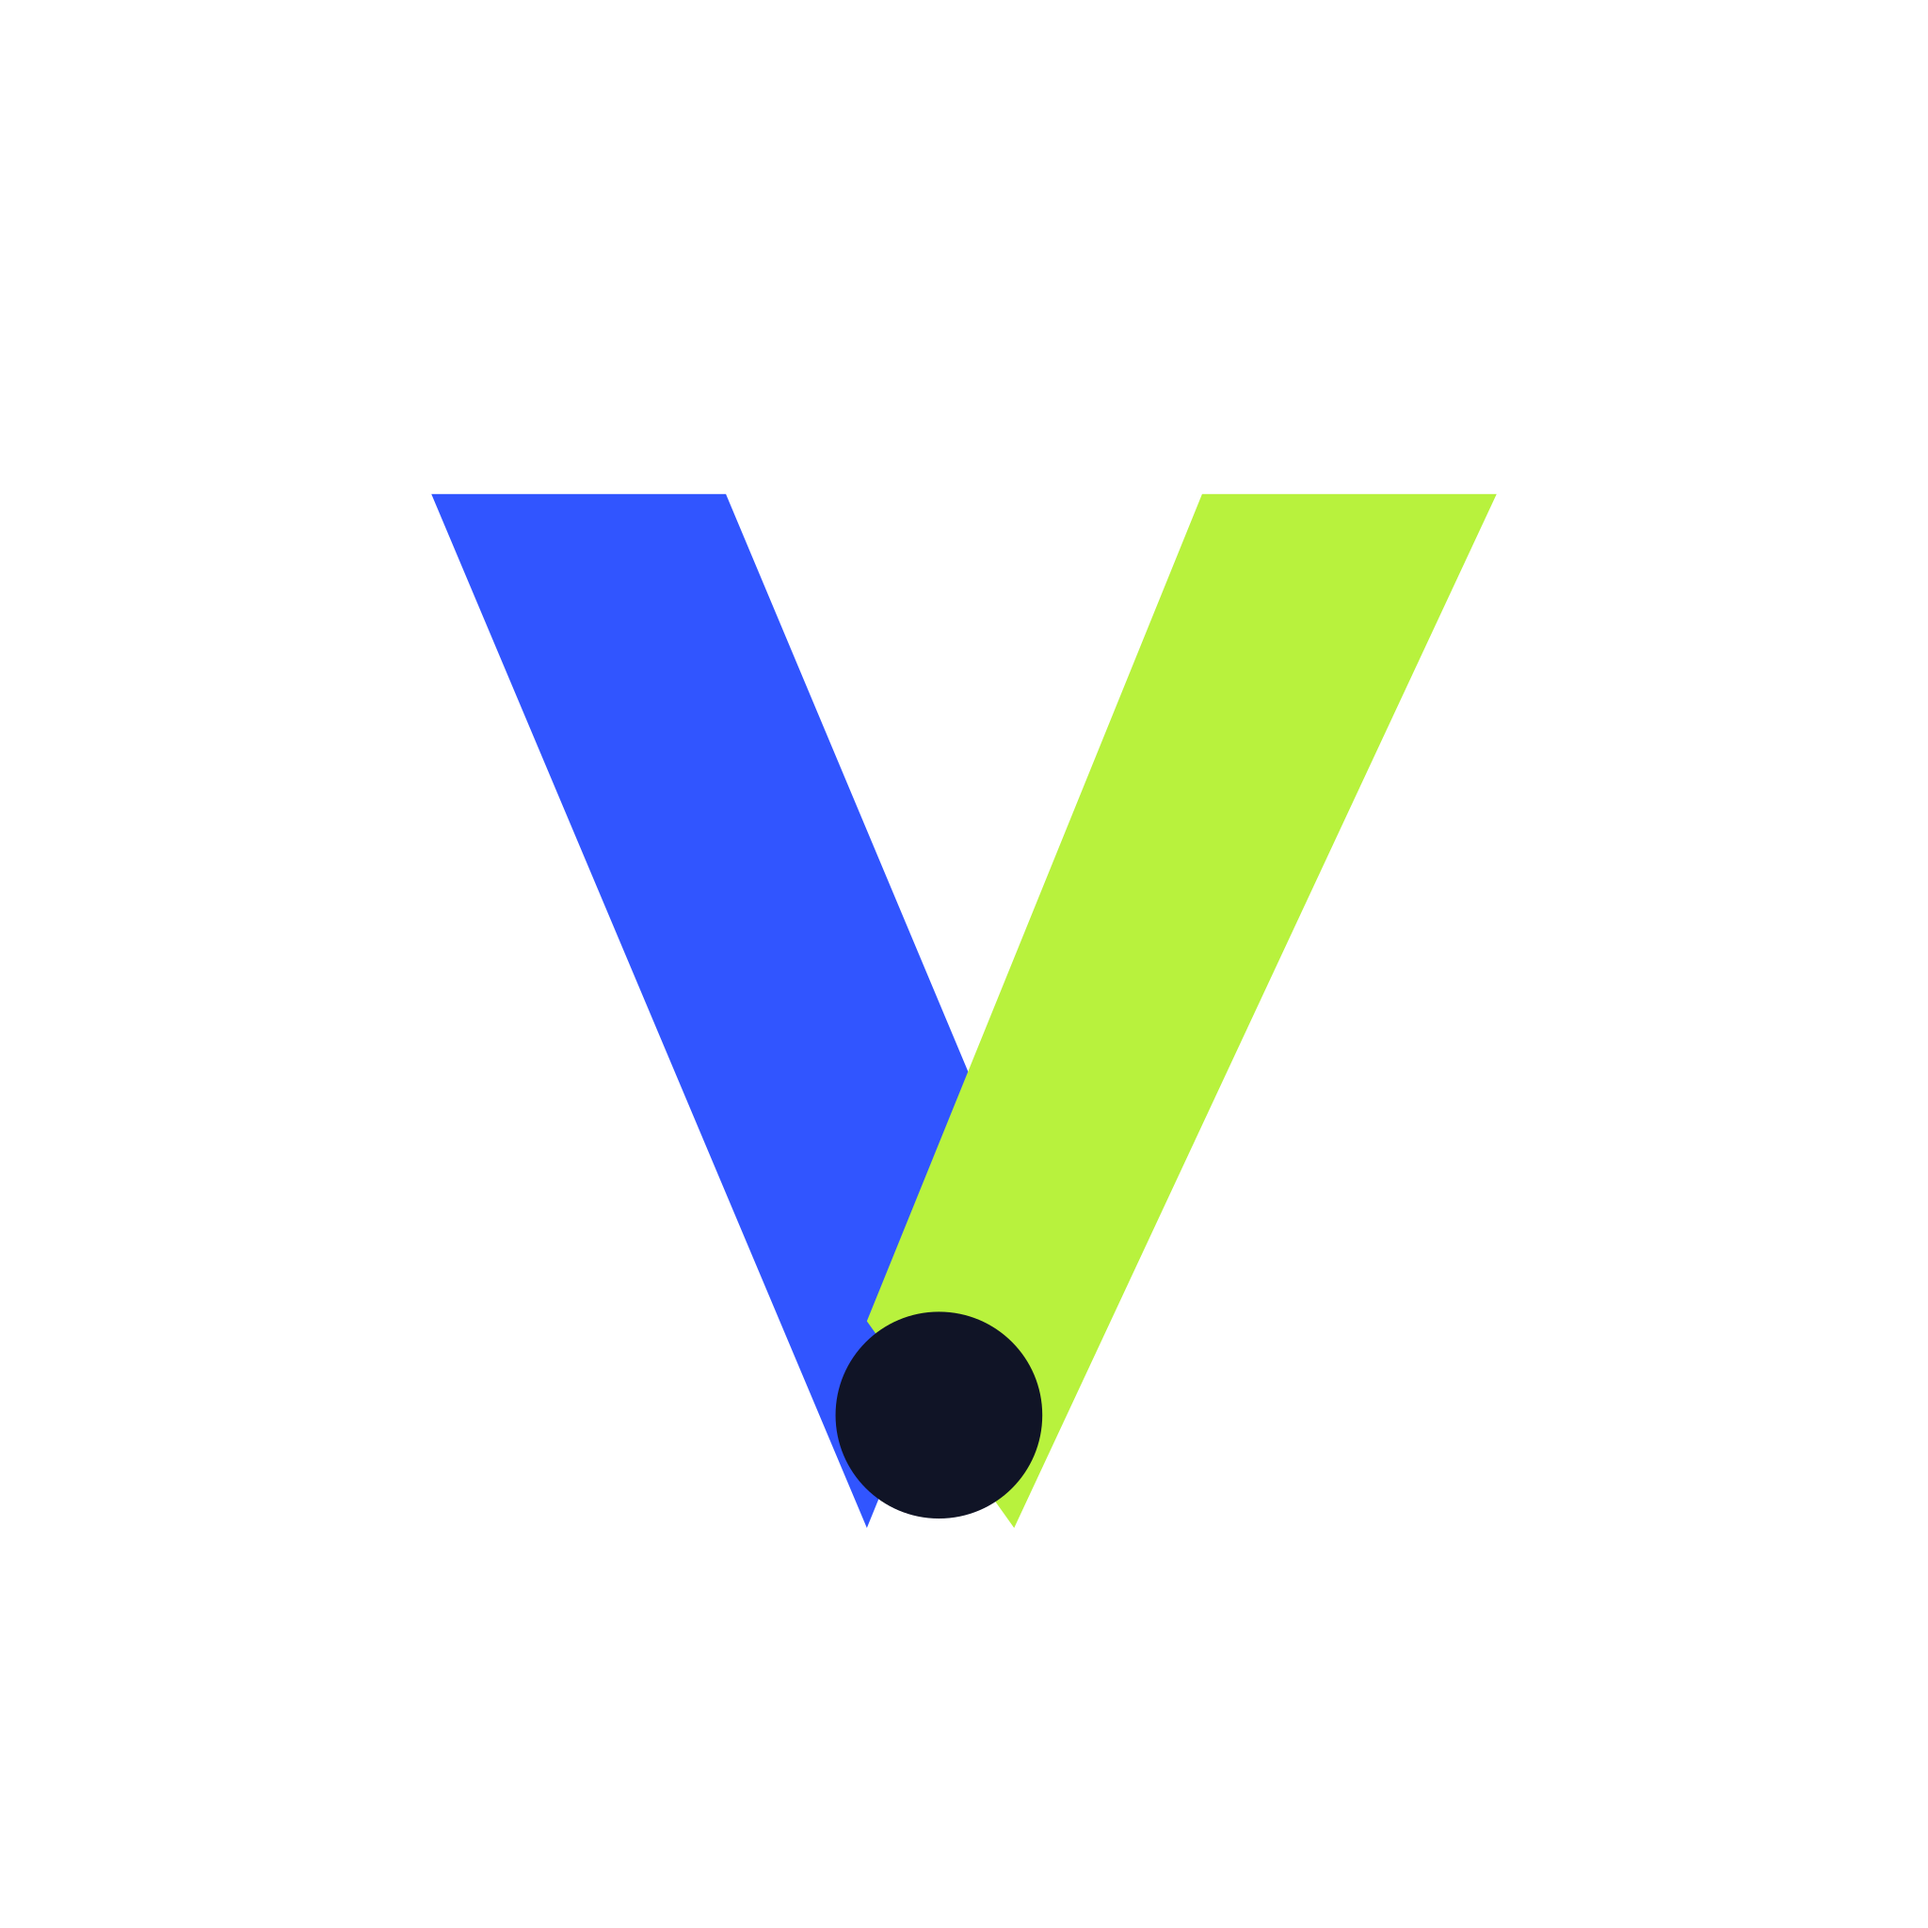
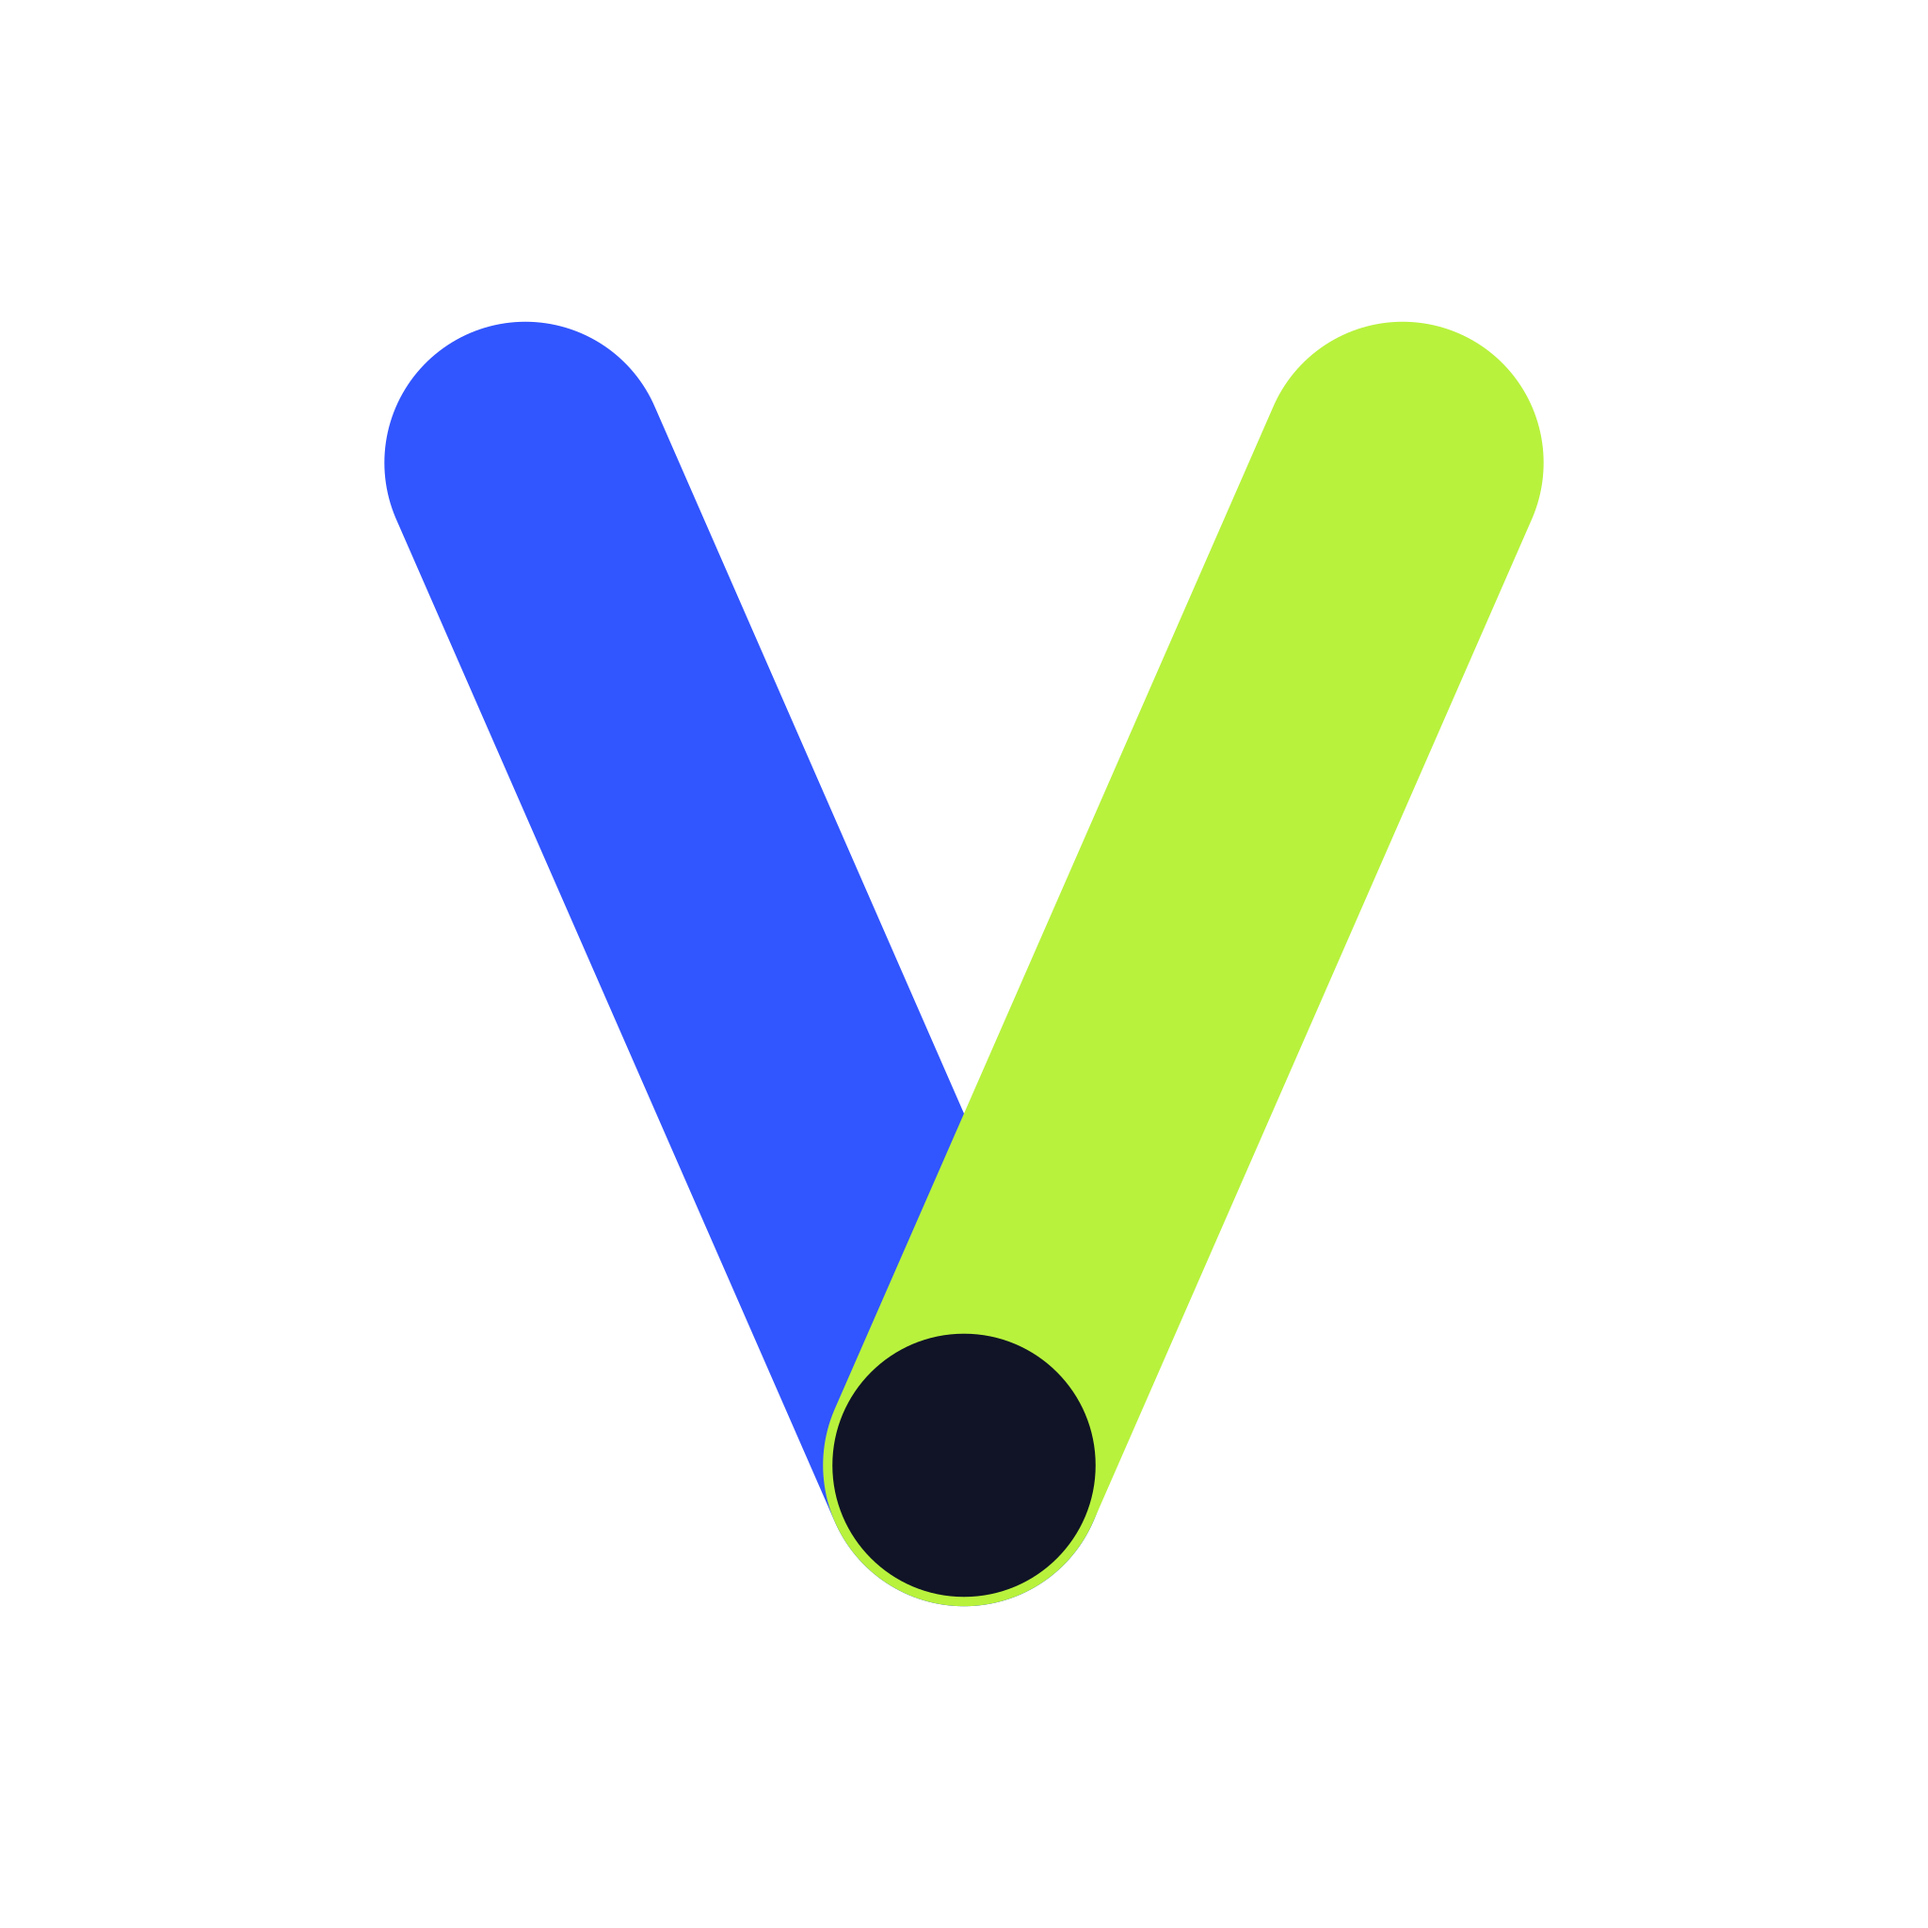
feat(brand): refine the V mark to rounded ribbons with an adaptive convergence dot
Replaced the angular two-polygon V with a cleaner pair of thick,
round-capped diagonal strokes meeting at a point, per new reference
art the user provided (compared side-by-side on light/dark/transparent
backgrounds before picking a direction). Kept the existing color-
adaptive dot (dark navy on light surfaces, white on dark) rather than a
true transparent cutout, since a solid dot stays legible on any
background including photos and gradients.

Regenerated every derived asset from the new geometry: favicon (svg +
16/32px png), apple-touch-icon, PWA icons (192/512/maskable), the OG
social-preview image, and the brand/ export set (mark, app icon,
wordmark, on-dark variants) — build-brand.mjs and make-icons.mjs each
had their own copy of the mark path and both needed updating to match
Logo.tsx, the canonical source.

Changed region(s): [[0.1875, 0.1562, 0.8125, 0.8438], [0.5312, 0.3438, 0.5938, 0.5]]

diff --git a/src/client/components/Logo.tsx b/src/client/components/Logo.tsx
@@ -1,6 +1,6 @@
 /**
- * VIBIN mark: an abstract "V" built from two converging blades — the left blade
- * VIBIN Blue, the right blade VIBIN Lime — meeting at a point, like two paths
+ * VIBIN mark: an abstract "V" built from two converging ribbons — the left
+ * VIBIN Blue, the right VIBIN Lime — meeting at a point, like two paths
  * agreeing on one direction. Stays legible at favicon size.
  */
 export function LogoMark({
@@ -12,18 +12,12 @@ export function LogoMark({
 }) {
   return (
     <svg viewBox="0 0 48 48" className={className} aria-hidden="true">
-      {/* left blade — VIBIN Blue */}
-      <path
-        d="M7 9h9.4l9.1 21.7L20.9 42 7 9Z"
-        fill="#3155ff"
-      />
-      {/* right blade — VIBIN Lime */}
-      <path
-        d="M41 9h-9.4L20.9 35.4 25.6 42 41 9Z"
-        fill="#b8f23d"
-      />
+      {/* left ribbon — VIBIN Blue */}
+      <line x1="10" y1="8" x2="24" y2="40" stroke="#3155ff" strokeWidth="9" strokeLinecap="round" />
+      {/* right ribbon — VIBIN Lime */}
+      <line x1="38" y1="8" x2="24" y2="40" stroke="#b8f23d" strokeWidth="9" strokeLinecap="round" />
       {/* convergence dot */}
-      <circle cx="23.2" cy="38.4" r="3.3" fill={onDark ? "#f7f8fc" : "#101426"} />
+      <circle cx="24" cy="40" r="4.2" fill={onDark ? "#f7f8fc" : "#101426"} />
     </svg>
   );
 }
